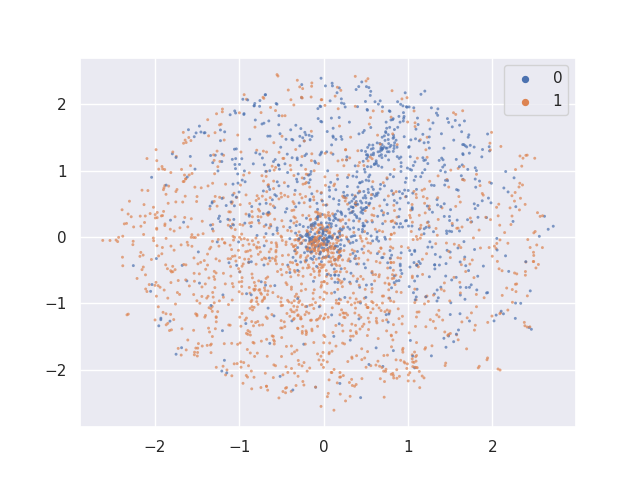
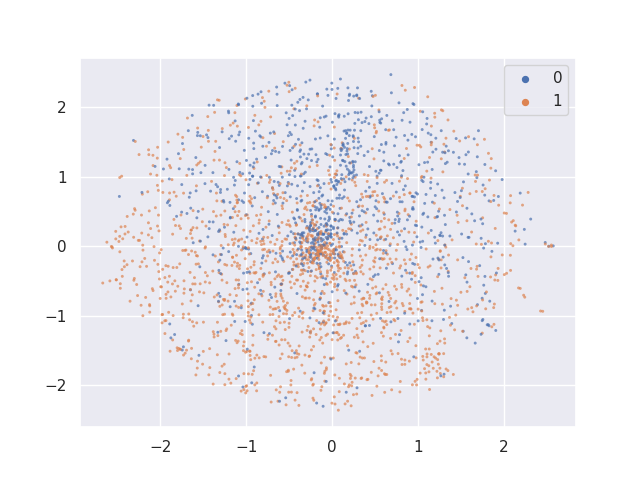
more plots.

diff --git a/visualize.py b/visualize.py
@@ -317,7 +317,8 @@ if __name__ == "__main__":
     print(len(cues))
 
     #umap_plot(vectors, estimates, cues=cues, save_prefix='test')
-    tsne(vectors, estimates, cues=cues, perplex=500, lr=500, save_prefix='test-tsne-')
+    for perplex in [50, 100, 200, 500, 1000, 2000]:
+        tsne(vectors, estimates, cues=cues, perplex=perplex, lr=500, save_prefix='test-tsne-')
     
     #umap_plot(vectors, estimates, neighbors=15, metric='euclidean', cues=cues, save_prefix='umap/fasttext-en-', save_points='scatter-umap.pkl')
     #kmap(vectors, cues, save_prefix='fasttext-en-')
